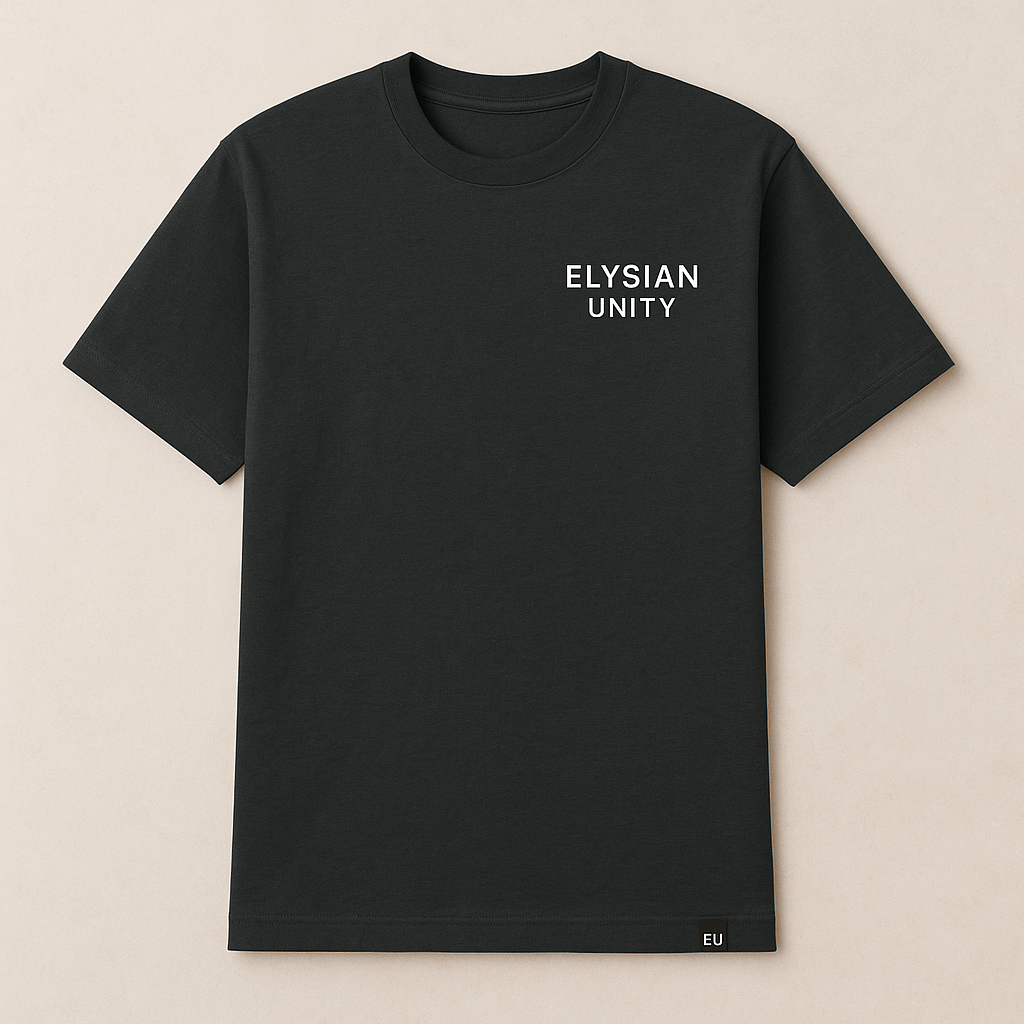
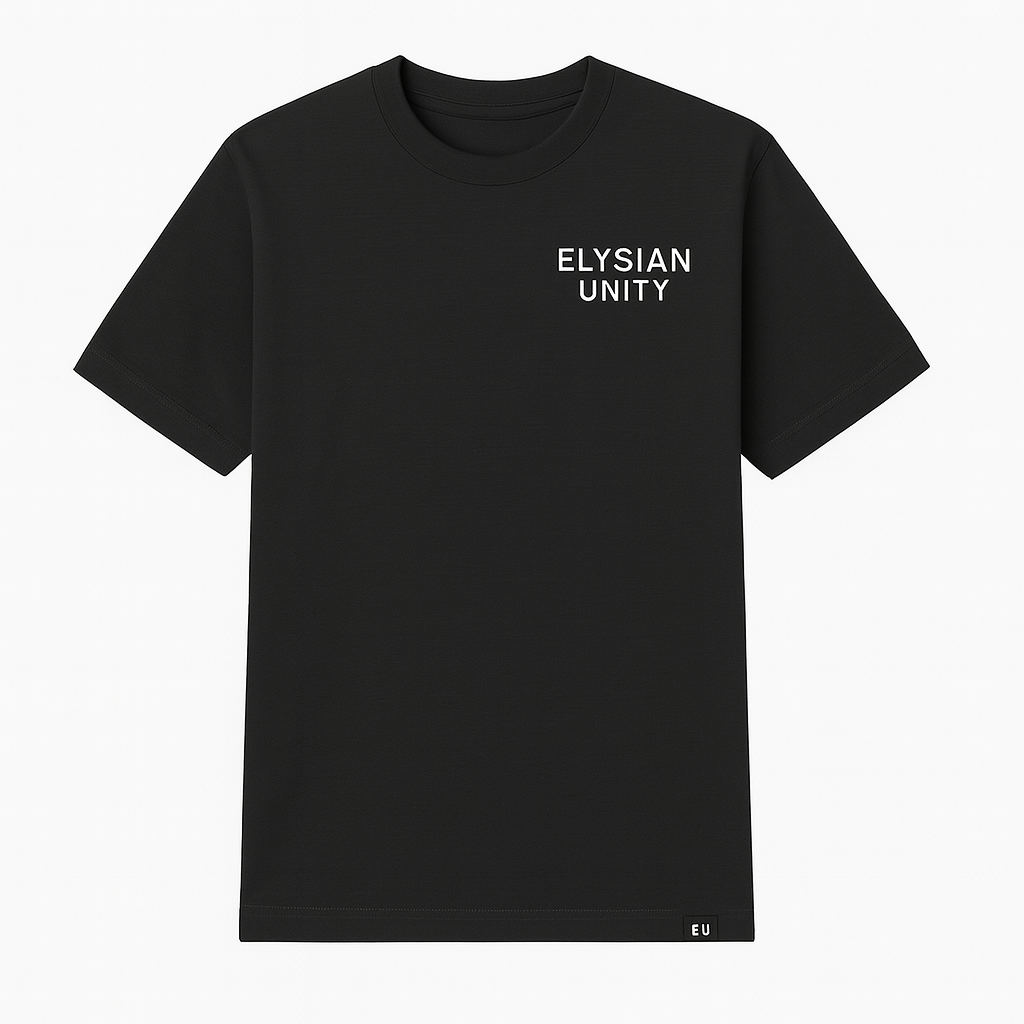
adjust prices + photos

diff --git a/index.html b/index.html
@@ -783,10 +783,10 @@
                         <li><span>Couleur</span> <span>Charcoal Profond</span></li>
                     </ul>
                     <div class="product-pricing">
-                        <div class="price-main">45€</div>
+                        <div class="price-main">65€</div>
                         <div class="price-student">
                             <div class="price-student-label">Tarif Étudiant</div>
-                            <div class="price-student-amount">36€</div>
+                            <div class="price-student-amount">55€</div>
                         </div>
                     </div>
                     <div class="product-cta">
@@ -815,10 +815,10 @@
                         <li><span>Coupe</span> <span>Unisexe, fit moderne</span></li>
                     </ul>
                     <div class="product-pricing">
-                        <div class="price-main">30€</div>
+                        <div class="price-main">48€</div>
                         <div class="price-student">
                             <div class="price-student-label">Tarif Étudiant</div>
-                            <div class="price-student-amount">24€</div>
+                            <div class="price-student-amount">45€</div>
                         </div>
                     </div>
                     <div class="product-cta">
@@ -840,7 +840,7 @@
             <!-- Signature Edition -->
             <div class="product-hero" style="padding-top: 3rem; border-top: 1px solid #f0f0f0;">
                 <div class="product-details">
-                    <span class="product-tag" style="background: #0a0a0a; color: white;">Best Seller</span>
+                    <!-- <span class="product-tag" style="background: #0a0a0a; color: white;">Best Seller</span> -->
                     <h2>Signature Hoodie - Charcoal</h2>
                     <p class="product-description">
                         Notre pièce phare. Double broderie sophistiquée : logo discret devant, demi-cercle signature dans le dos. 
@@ -853,14 +853,14 @@
                         <li><span>Couleur</span> <span>Noir / Charcoal Profond</span></li>
                     </ul>
                     <div class="product-pricing">
-                        <div class="price-main">55€</div>
+                        <div class="price-main">80€</div>
                         <div class="price-student">
                             <div class="price-student-label">Tarif Étudiant</div>
-                            <div class="price-student-amount">44€</div>
+                            <div class="price-student-amount">75€</div>
                         </div>
                     </div>
                     <div class="product-cta">
-                        <button class="btn-primary">Commander</button>
+                        <button class="btn-primary">Précommander</button>
                         <button class="btn-secondary">Guide des tailles</button>
                     </div>
                 </div>
